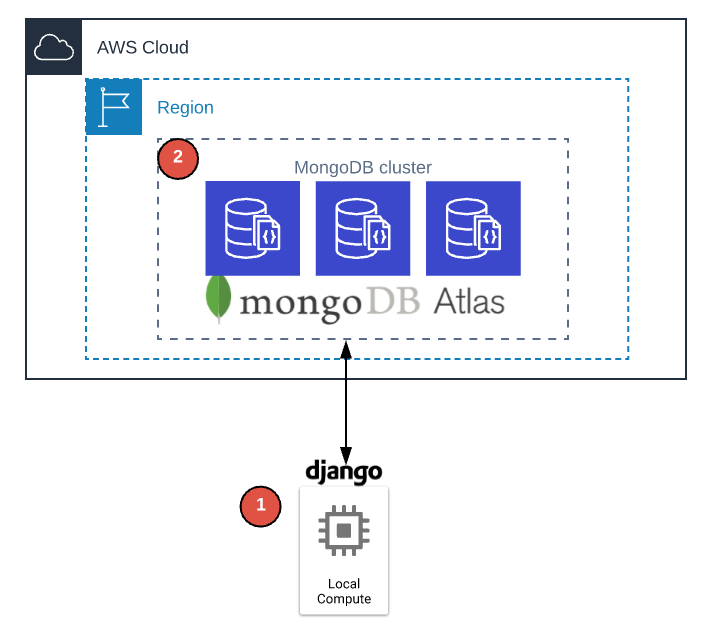
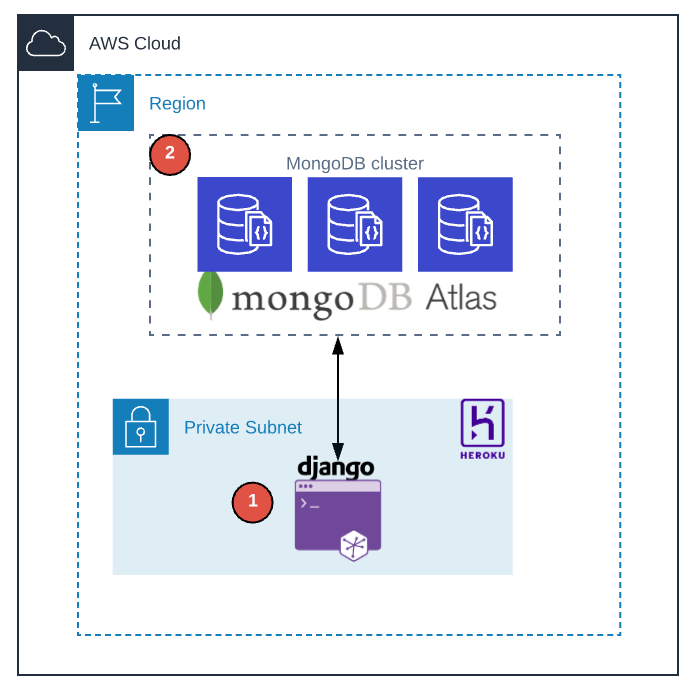
Updates README images

diff --git a/README.md b/README.md
@@ -54,11 +54,11 @@ Next you can see the desired architecture that I consider that should be provisi
 
 ## Current Architecture
 
-The delivered application was deployed in the following architecture
+The delivered application was deployed in the follow architecture
 
 ![er-model](https://github.com/jcardenasc93/zemoga_datasets/blob/main/project_images/current_arch.png)
 
-This is a simple monolithic app, this component embeds the app layer and the processing layer, so the same dyno performs application layer related operations and data frame processing as well. The mongoDB cluster component was provisioned over the [Mongo Atlas](https://www.mongodb.com/) services described before in the free plan subscription.
+This is a simple monolithic app deployed in a basic free [Heroku dyno](https://www.heroku.com/dynos), this component embeds the app layer and the processing layer, so the  same dyno performs application layer related operations and data frame  processing as well. The mongoDB cluster component was provisioned over  the [Mongo Atlas](https://www.mongodb.com/) services described before in the free plan subscription.
 
 ## Tech Requirements
 
